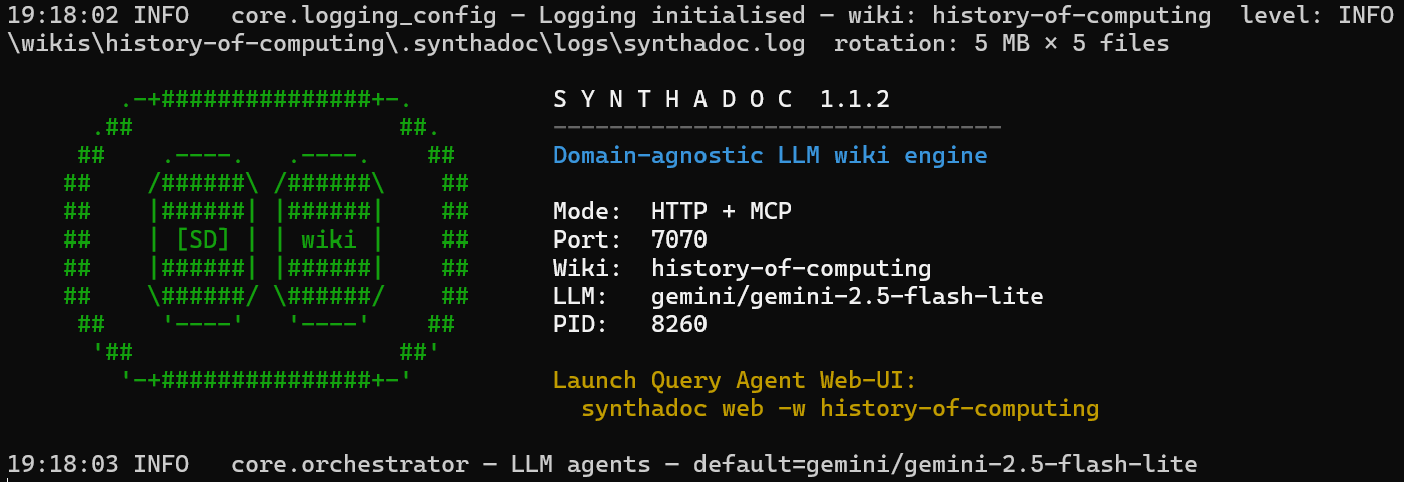
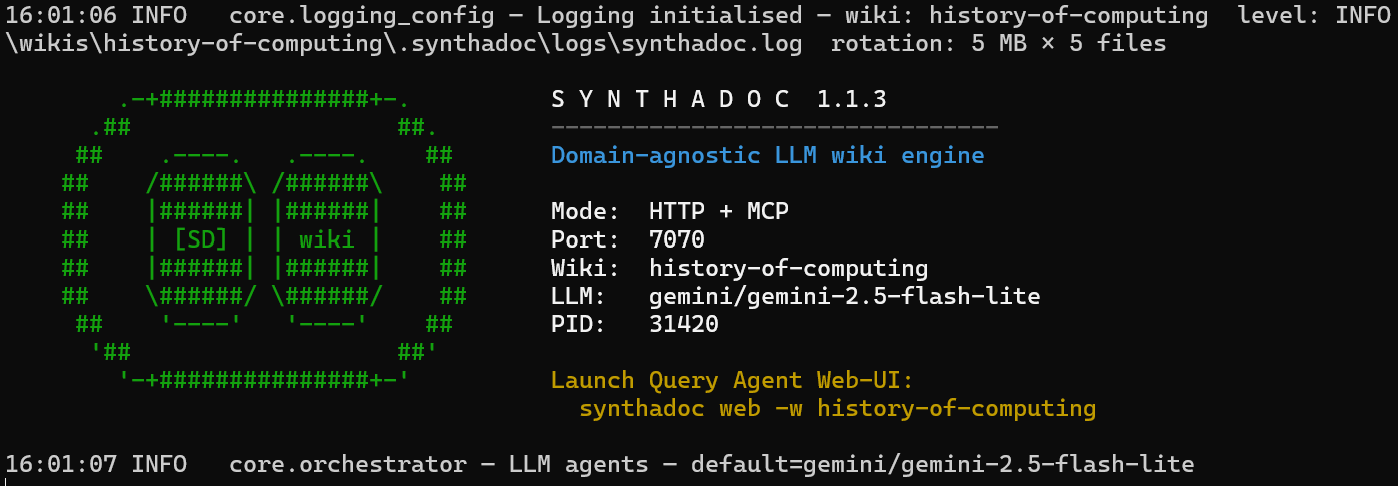
fix(pip/pip3 production deps): move mcp to required dependencies - fresh installs fail with ModuleNotFoundError (#253)
* fix(deps): move mcp to required dependencies — fresh installs fail with ModuleNotFoundError

* chore: bump version to 1.1.3

* docs: update synthadoc-serve.png screenshot

* docs: sync README-pypi.md for v1.1.3

diff --git a/README-pypi.md b/README-pypi.md
@@ -14,7 +14,7 @@
       '-+###############+-'
 
        S Y N T H A D O C
-    Community Edition  v1.1.2
+    Community Edition  v1.1.3
   ────────────────────────────────
   Domain-agnostic LLM wiki engine
 ```
@@ -29,9 +29,9 @@
 [![CLI](https://img.shields.io/badge/dynamic/json?url=https%3A%2F%2Fraw.githubusercontent.com%2Faxoviq-ai%2Fsynthadoc%2Fbadges%2Fdocs%2Fbadges.json&query=%24.cli_commands&label=CLI%20commands&color=darkblue)](https://github.com/axoviq-ai/synthadoc)
 [![Obsidian](https://img.shields.io/badge/dynamic/json?url=https%3A%2F%2Fraw.githubusercontent.com%2Faxoviq-ai%2Fsynthadoc%2Fbadges%2Fdocs%2Fbadges.json&query=%24.obsidian_commands&label=Obsidian%20commands&color=blueviolet)](https://github.com/axoviq-ai/synthadoc/tree/main/obsidian-plugin)
 [![MCP](https://img.shields.io/badge/dynamic/json?url=https%3A%2F%2Fraw.githubusercontent.com%2Faxoviq-ai%2Fsynthadoc%2Fbadges%2Fdocs%2Fbadges.json&query=%24.mcp_tools&label=MCP%20tools&color=orange)](https://github.com/axoviq-ai/synthadoc/blob/main/docs/user-quick-start-guide.md#appendix-i--connect-claude-via-mcp)
-[![Version](https://img.shields.io/badge/Community%20Edition-v1.1.2-brightgreen.svg)](https://github.com/axoviq-ai/synthadoc)
+[![Version](https://img.shields.io/badge/Community%20Edition-v1.1.3-brightgreen.svg)](https://github.com/axoviq-ai/synthadoc)
 
-**Document version: v1.1.2**
+**Document version: v1.1.3**
 
 **Engineered for solo users and enterprises alike, providing a domain-specific knowledge base that scales seamlessly while maintaining accuracy through autonomous self-optimization.**
 

diff --git a/README.md b/README.md
@@ -14,7 +14,7 @@
       '-+###############+-'
 
        S Y N T H A D O C
-    Community Edition  v1.1.2
+    Community Edition  v1.1.3
   ────────────────────────────────
   Domain-agnostic LLM wiki engine
 ```
@@ -29,9 +29,9 @@
 [![CLI](https://img.shields.io/badge/dynamic/json?url=https%3A%2F%2Fraw.githubusercontent.com%2Faxoviq-ai%2Fsynthadoc%2Fbadges%2Fdocs%2Fbadges.json&query=%24.cli_commands&label=CLI%20commands&color=darkblue)](https://github.com/axoviq-ai/synthadoc)
 [![Obsidian](https://img.shields.io/badge/dynamic/json?url=https%3A%2F%2Fraw.githubusercontent.com%2Faxoviq-ai%2Fsynthadoc%2Fbadges%2Fdocs%2Fbadges.json&query=%24.obsidian_commands&label=Obsidian%20commands&color=blueviolet)](https://github.com/axoviq-ai/synthadoc/tree/main/obsidian-plugin)
 [![MCP](https://img.shields.io/badge/dynamic/json?url=https%3A%2F%2Fraw.githubusercontent.com%2Faxoviq-ai%2Fsynthadoc%2Fbadges%2Fdocs%2Fbadges.json&query=%24.mcp_tools&label=MCP%20tools&color=orange)](https://github.com/axoviq-ai/synthadoc/blob/main/docs/user-quick-start-guide.md#appendix-i--connect-claude-via-mcp)
-[![Version](https://img.shields.io/badge/Community%20Edition-v1.1.2-brightgreen.svg)](https://github.com/axoviq-ai/synthadoc)
+[![Version](https://img.shields.io/badge/Community%20Edition-v1.1.3-brightgreen.svg)](https://github.com/axoviq-ai/synthadoc)
 
-**Document version: v1.1.2**
+**Document version: v1.1.3**
 
 **Engineered for solo users and enterprises alike, providing a domain-specific knowledge base that scales seamlessly while maintaining accuracy through autonomous self-optimization.**
 

diff --git a/docs/user-quick-start-guide.md b/docs/user-quick-start-guide.md
@@ -1,6 +1,6 @@
 # Synthadoc User Quick-Start Guide
 
-**Version: v1.1.2 (Community Edition)**
+**Version: v1.1.3 (Community Edition)**
 
 This guide walks you through the **History of Computing** demo wiki — a fully wired
 Synthadoc environment with 13 pre-built pages and six raw source files that cover every

diff --git a/docs/design.md b/docs/design.md
@@ -1,6 +1,6 @@
 # Synthadoc — Design Document
 
-**Version:** 1.1.2  
+**Version:** 1.1.3  
 **Audience:** Product users who want to understand how the system works; developers adding features, skills, and plugins.
 
 **Document owners:** Paul Chen, William Johnason
